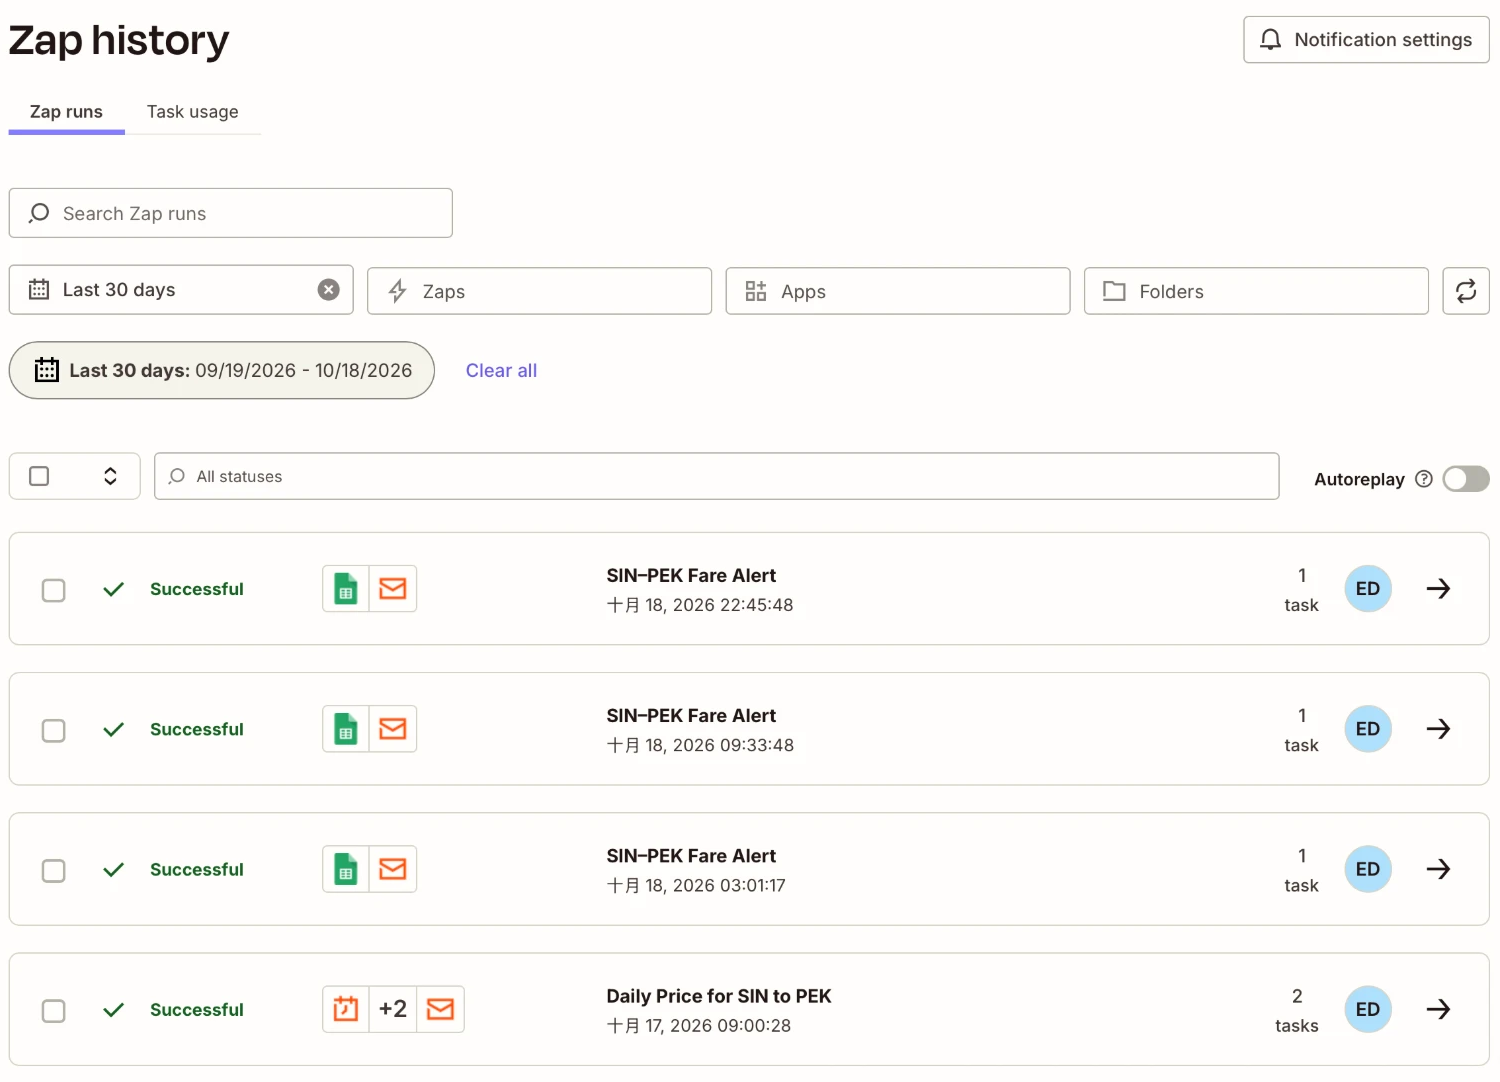
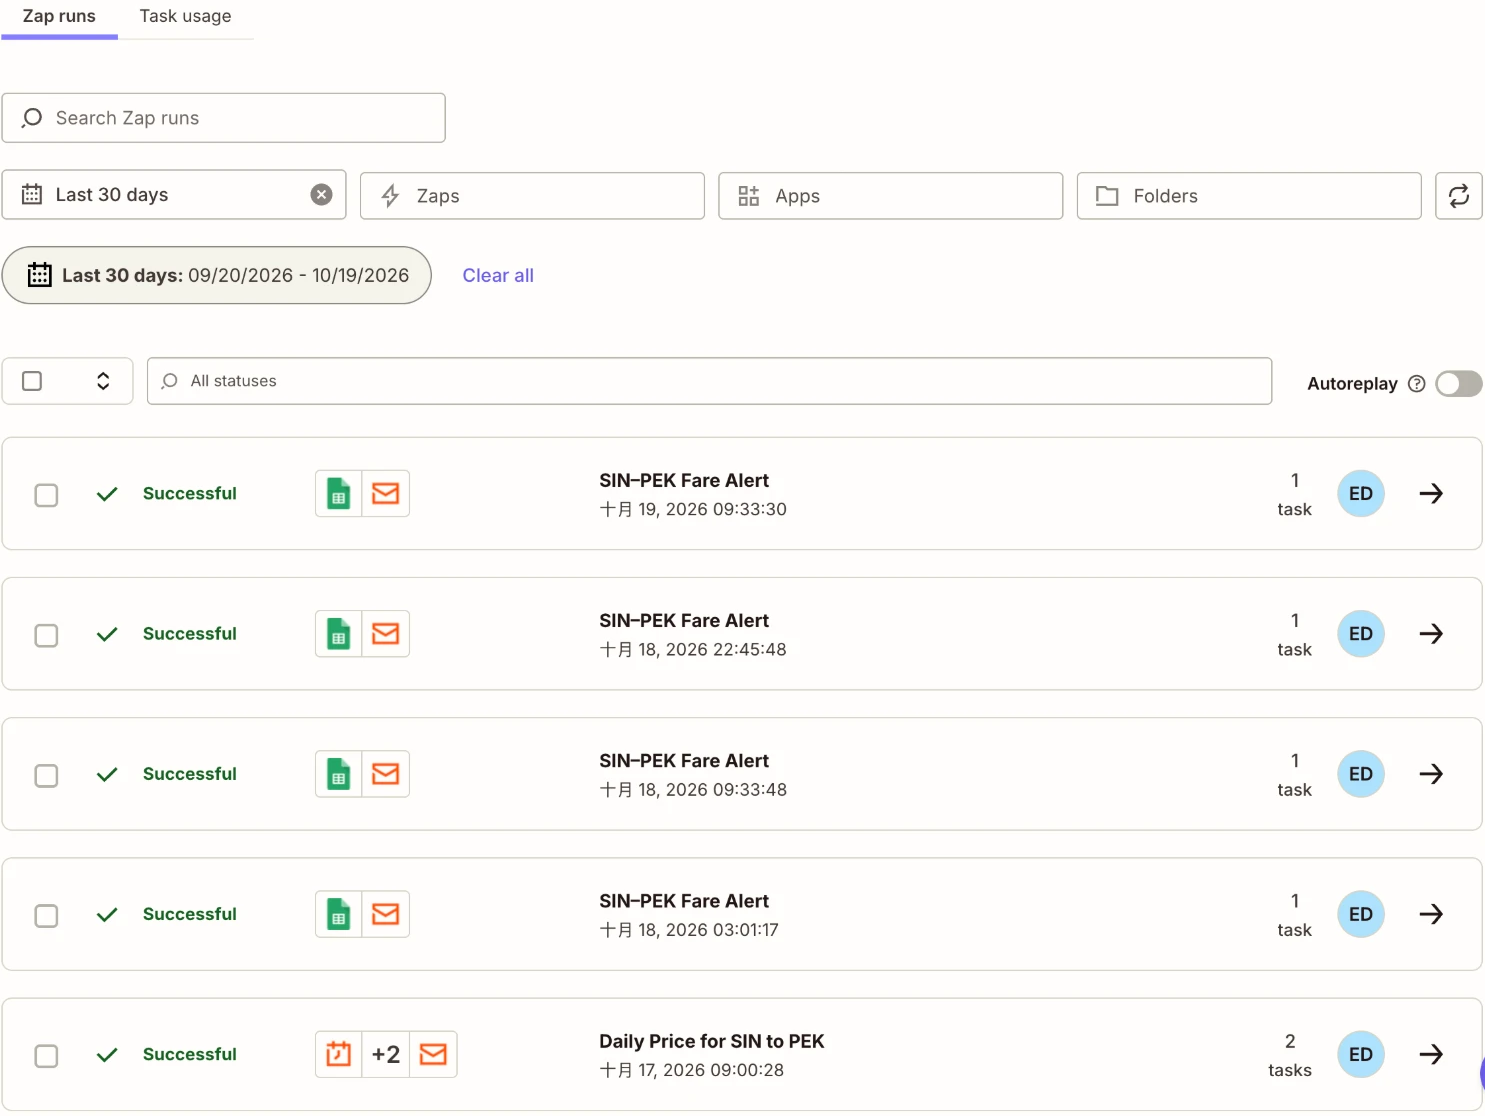
Add run 3, the four-run Zap history and the alert-threshold reflection

diff --git a/index.html b/index.html
@@ -115,14 +115,14 @@
         <tr><td>1</td><td>18 Oct 2026, 03:01</td><td>No alert</td><td>CNY 2,640 · 21 Dec → 9 Jan · Air China</td><td>Yes: the 03:04 email shows the same status, fare, dates and six prices</td></tr>
         <tr><td>2</td><td>18 Oct 2026, 09:33</td><td>ALERT: CNY 115 cheaper than last check</td><td>CNY 2,525 · 21 Dec → 9 Jan · Air China</td><td>Yes: the 09:35 email shows the same ALERT and fare</td></tr>
         <tr><td>Tricky case, after the fix</td><td>18 Oct 2026, 22:45</td><td>CHECK FAILED</td><td>none (all six searches failed)</td><td>Yes: the 22:47 email shows CHECK FAILED and the error</td></tr>
-        <tr><td>3</td><td><span class="fill">to fill</span></td><td><span class="fill">to fill</span></td><td><span class="fill">to fill</span></td><td><span class="fill">to fill</span></td></tr>
+        <tr><td>3</td><td>19 Oct 2026, 09:33</td><td>ALERT: CNY 6 cheaper than last check</td><td>CNY 2,519 · 21 Dec → 9 Jan · Air China</td><td>Yes: the 09:36 email shows the same ALERT and fare</td></tr>
       </table>
       <div class="shots">
         <figure><img data-src="/images/zap-steps.png" alt="The two-step Zap: Google Sheets trigger and Email by Zapier action"><figcaption>The Zap: one trigger, one action.</figcaption></figure>
-        <figure><img data-src="/images/zap-history.png" alt="Zap history showing the runs"><figcaption>Zap history: three successful runs on 18 Oct, at 03:01, 09:33 and 22:45 (the tricky case after the fix).</figcaption></figure>
+        <figure><img data-src="/images/zap-history.png" alt="Zap history showing the runs"><figcaption>Zap history: four successful runs, at 03:01, 09:33 and 22:45 on 18 Oct (22:45 is the tricky case after the fix) and at 09:33 on 19 Oct.</figcaption></figure>
         <figure><img data-src="/images/run-1.png" alt="Email from run 1"><figcaption>Run 1 email (03:04): No alert, CNY 2,640.</figcaption></figure>
         <figure><img data-src="/images/run-2.png" alt="Email from run 2"><figcaption>Run 2 email (09:35): ALERT, CNY 2,525.</figcaption></figure>
-        <figure><img data-src="/images/run-3.png" alt="Email from run 3"><figcaption>Run 3 email.</figcaption></figure>
+        <figure><img data-src="/images/run-3.png" alt="Email from run 3"><figcaption>Run 3 email (09:36 on 19 Oct): ALERT, CNY 2,519.</figcaption></figure>
       </div>
 
       <h3>Step 2 · Tricky case and fix</h3>
@@ -138,7 +138,7 @@
 
       <h3>Q1 · Where my agent sits, and what it means for the person in the loop</h3>
       <p><strong>(a) My quadrant.</strong> AI alone, with checks (bottom left).</p>
-      <p><strong>(b) The two questions.</strong> It is <em>work with a right answer</em>: the job is to find the cheapest round-trip economy fare across six fixed date pairs and flag it when it is below CNY 1,600 or cheaper than the last check, and every answer can be checked against Google Flights. Two checks within the same hour on 18 Oct both returned CNY 2,640 for 21 Dec to 9 Jan. Run 2 at 09:33 then marked an ALERT, because the cheapest fare for the same Air China dates had fallen to CNY 2,525, CNY 115 below the earlier check. The answer changes from day to day, but at any moment there is one, and anyone can verify it. It is <em>work that either of them can do alone</em>: in run 1 the script wrote its row and the Zap emailed it at 03:01 with no step waiting for me, and I could do the same six searches by hand in about ten minutes.</p>
+      <p><strong>(b) The two questions.</strong> It is <em>work with a right answer</em>: the job is to find the cheapest round-trip economy fare across six fixed date pairs and flag it when it is below CNY 1,600 or cheaper than the last check, and every answer can be checked against Google Flights. Two checks within the same hour on 18 Oct both returned CNY 2,640 for 21 Dec to 9 Jan. Run 2 at 09:33 then marked an ALERT, because the cheapest fare for the same Air China dates had fallen to CNY 2,525, CNY 115 below the earlier check, and run 3 on 19 Oct found CNY 2,519. The answer changes from day to day, but at any moment there is one, and anyone can verify it. It is <em>work that either of them can do alone</em>: in run 1 the script wrote its row and the Zap emailed it at 03:01 with no step waiting for me, and I could do the same six searches by hand in about ten minutes.</p>
       <p><strong>(c) The person in the loop.</strong> I am the person at the gate, before any money is spent. I read the email after each 9 am run, and before acting on an ALERT I open its Google Flights link and check the fare, dates and flight; I also compare each run with its record in Zap history. The agent may search and email me on its own, and it can never book or pay, because no booking or payment app is connected. It would move up, to A person leads, AI inside, if it could book, because I would then have to sign off each booking. It would move right, to A person decides, AI alongside, if the job became choosing the best trip, trading a lower fare against an extra day at home, Daxing against Capital or a cheaper connection against a nonstop, because that has no single right answer.</p>
       <p><strong>(d) My group's view.</strong> I agree with our group placing task 4, Internship Alerts on Mail, in AI alone: like my agent, it matches openings against fixed criteria and emails the result for a person to spot-check. I would answer the together-or-alone question differently for task 2, the VIP notification hub: flagging which messages come from VIP senders has a right answer and an agent can do it alone, so I would place it in AI alone, with checks, and treat the replies that need a person's voice as a separate job. Looking back at my own Week 7 task, news summarisation (task 3), I would now answer the right-answer question differently too: the facts have a right answer, but judging their impact on us does not, which puts that part in A person decides, AI alongside rather than A person leads, AI inside.</p>
 
@@ -151,7 +151,7 @@
       </ul>
 
       <h3>Reflection</h3>
-      <p>My agent fitted the job because checking six fixed date pairs every morning is tedious for me but has one right answer that the agent can find alone. It failed silently when every search failed: until the fix, a bad day produced no row and no email, which I could have read as "no change". I would add the return flight and a week's price trend to the email, and I would test the failure case before the first live run.</p>
+      <p>My agent fitted the job because checking six fixed date pairs every morning is tedious for me but has one right answer that the agent can find alone. It failed silently when every search failed: until the fix, a bad day produced no row and no email, which I could have read as "no change". Run 3 also showed a weakness in my rule: a drop of only CNY 6 raised an ALERT, so I would only alert on a drop of at least CNY 50, add the return flight to the email, and test the failure case before the first live run.</p>
 
       <p class="note">Public page: no email addresses, client data or keys, and screenshots are cropped. My Zap is turned off after class on Wednesday 21 October.</p>
     </section>

diff --git a/src/components/workspaces/FlightFareWorkspace.tsx b/src/components/workspaces/FlightFareWorkspace.tsx
@@ -17,6 +17,7 @@ const DATE_PAIRS = [
 
 // Real Zap runs, newest first, copied from the "Daily fares" sheet
 const RUNS = [
+  { when: '19 Oct 2026, 09:33', status: 'ALERT', price: '2,519', note: 'CNY 6 cheaper than the last check' },
   { when: '18 Oct 2026, 09:33', status: 'ALERT', price: '2,525', note: 'CNY 115 cheaper than the last check' },
   { when: '18 Oct 2026, 03:01', status: 'No alert', price: '2,640', note: 'Not below CNY 1,600 and same as the last check' },
 ];
@@ -144,7 +145,7 @@ export const FlightFareWorkspace: React.FC<FlightFareWorkspaceProps> = ({ onBack
             ))}
             <div className="text-sm text-slate-700 flex items-center gap-2 border-t border-slate-100 pt-3">
               <Plane className="w-4 h-4 text-teal-700 shrink-0" />
-              Both: 21 Dec → 9 Jan · Air China · nonstop to Beijing Capital
+              All three: 21 Dec → 9 Jan · Air China · nonstop to Beijing Capital
             </div>
           </div>
 
